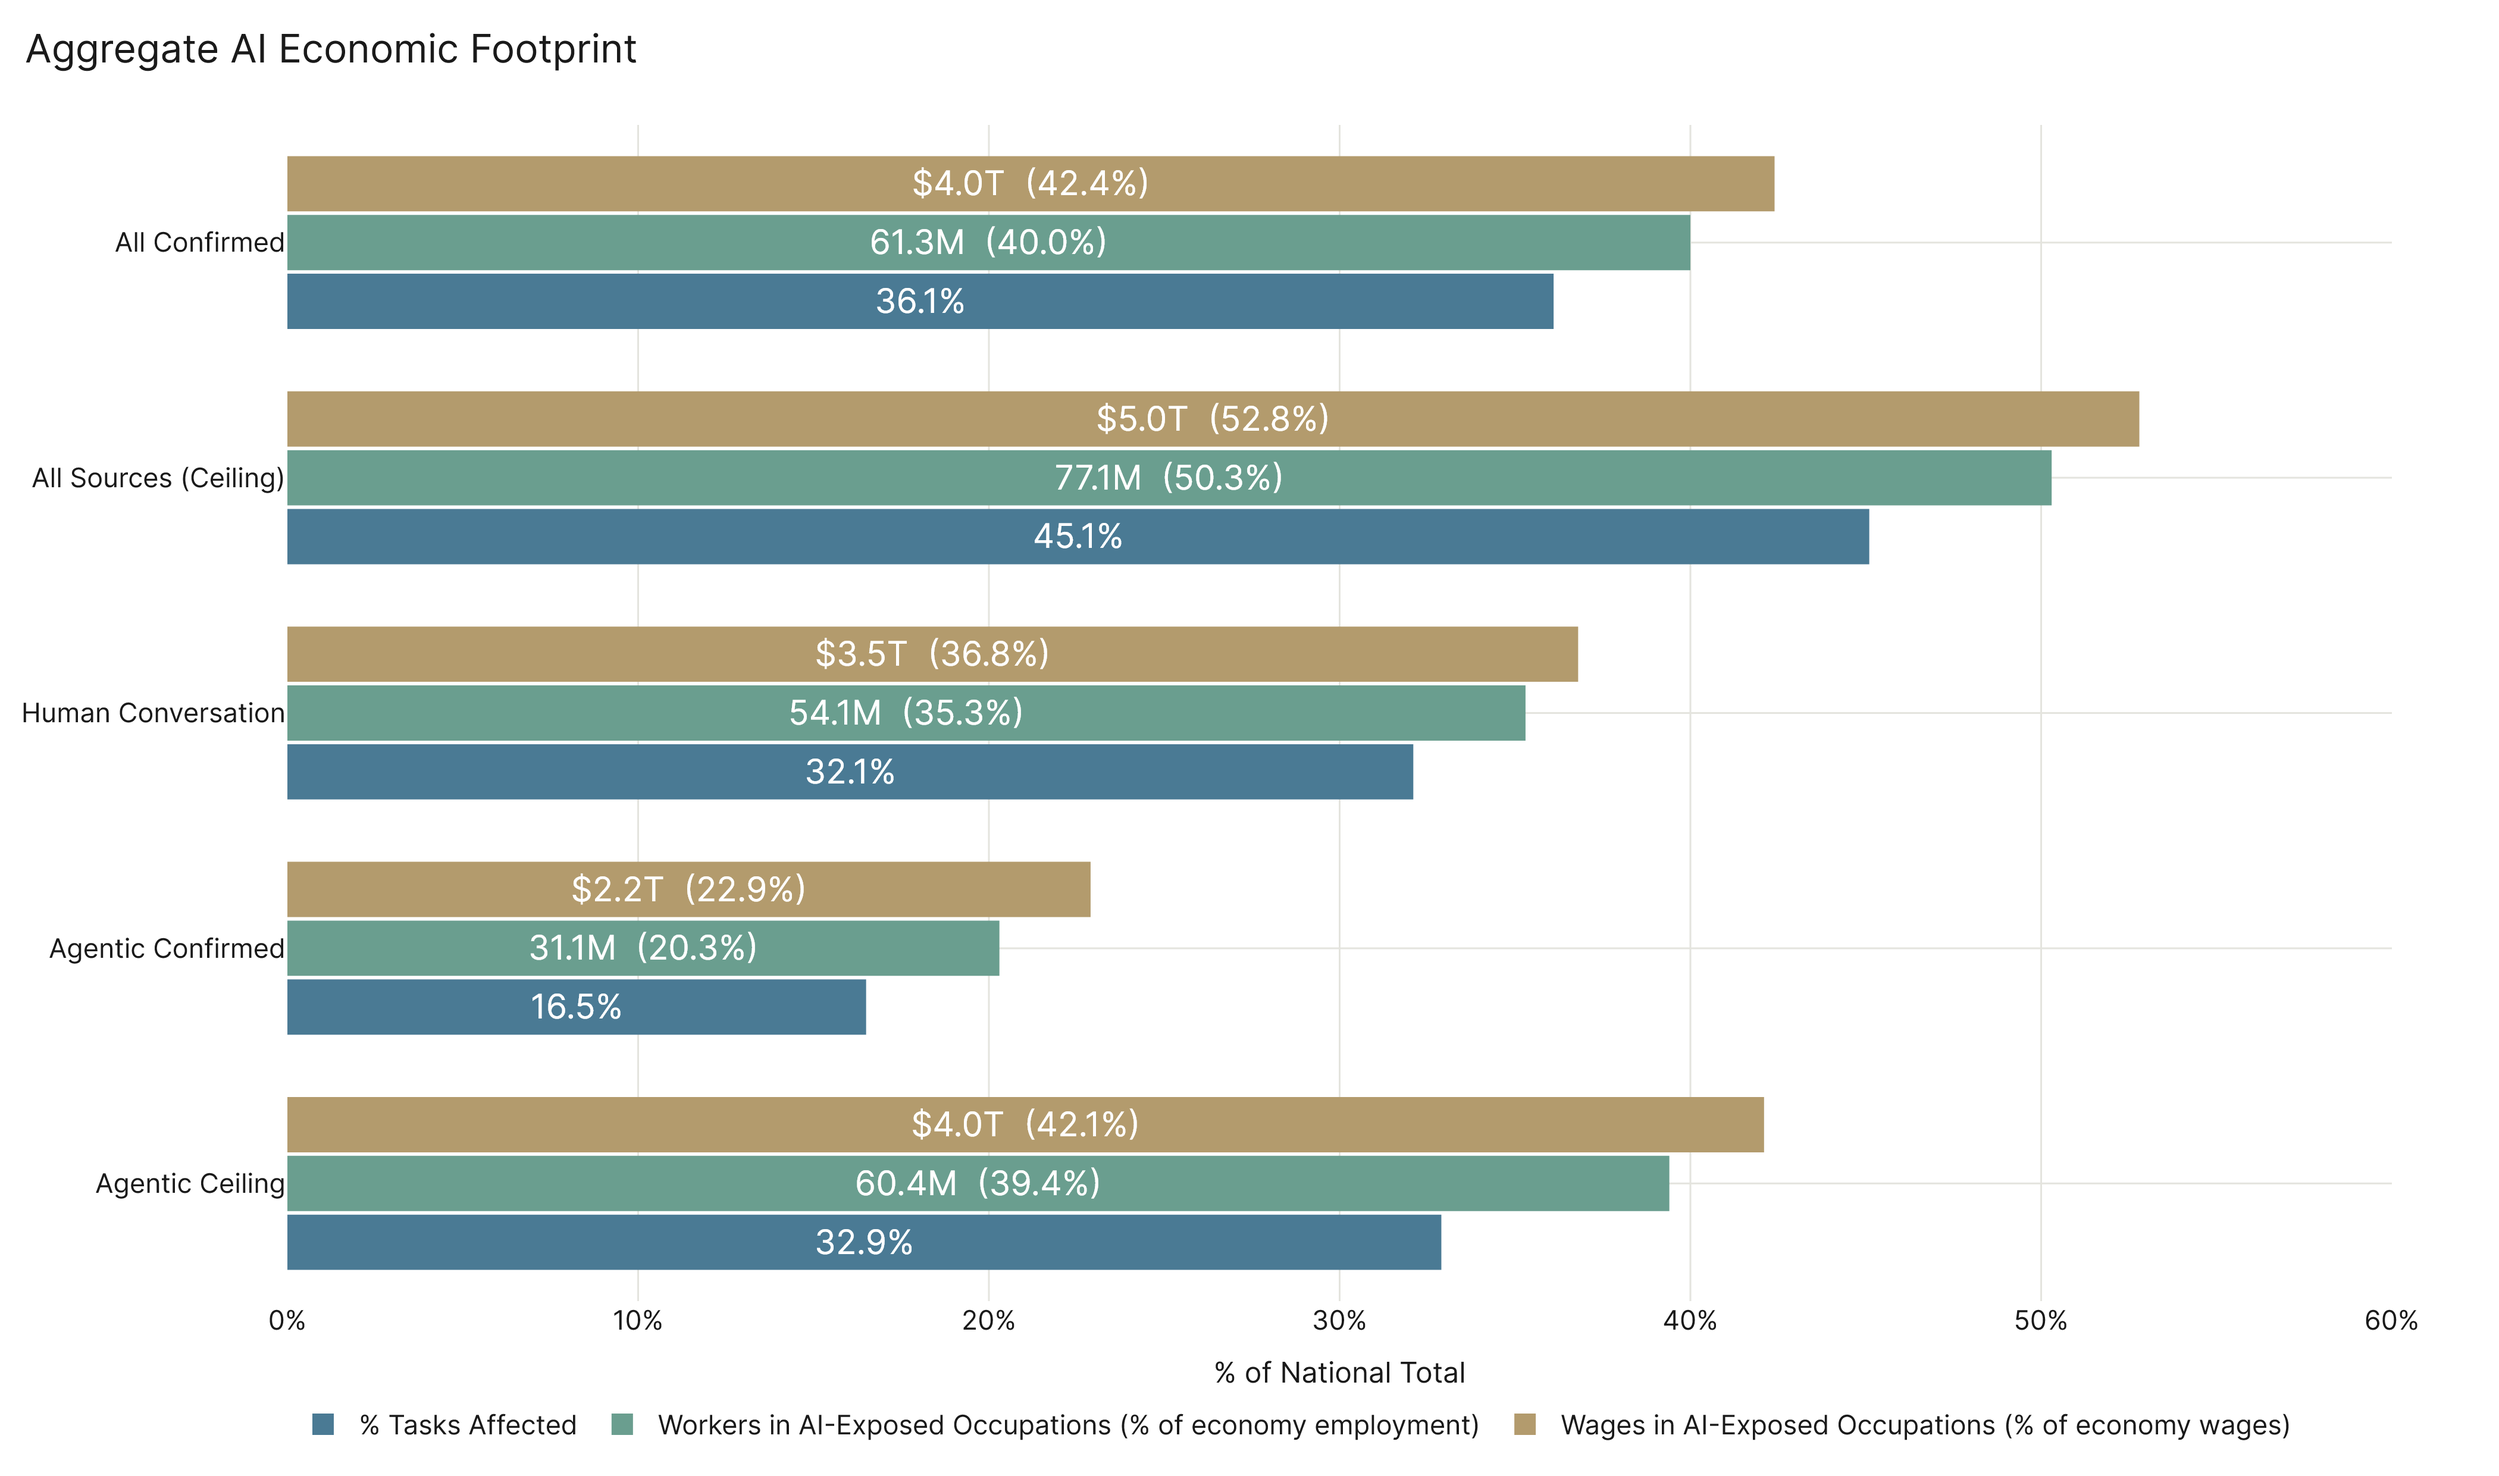
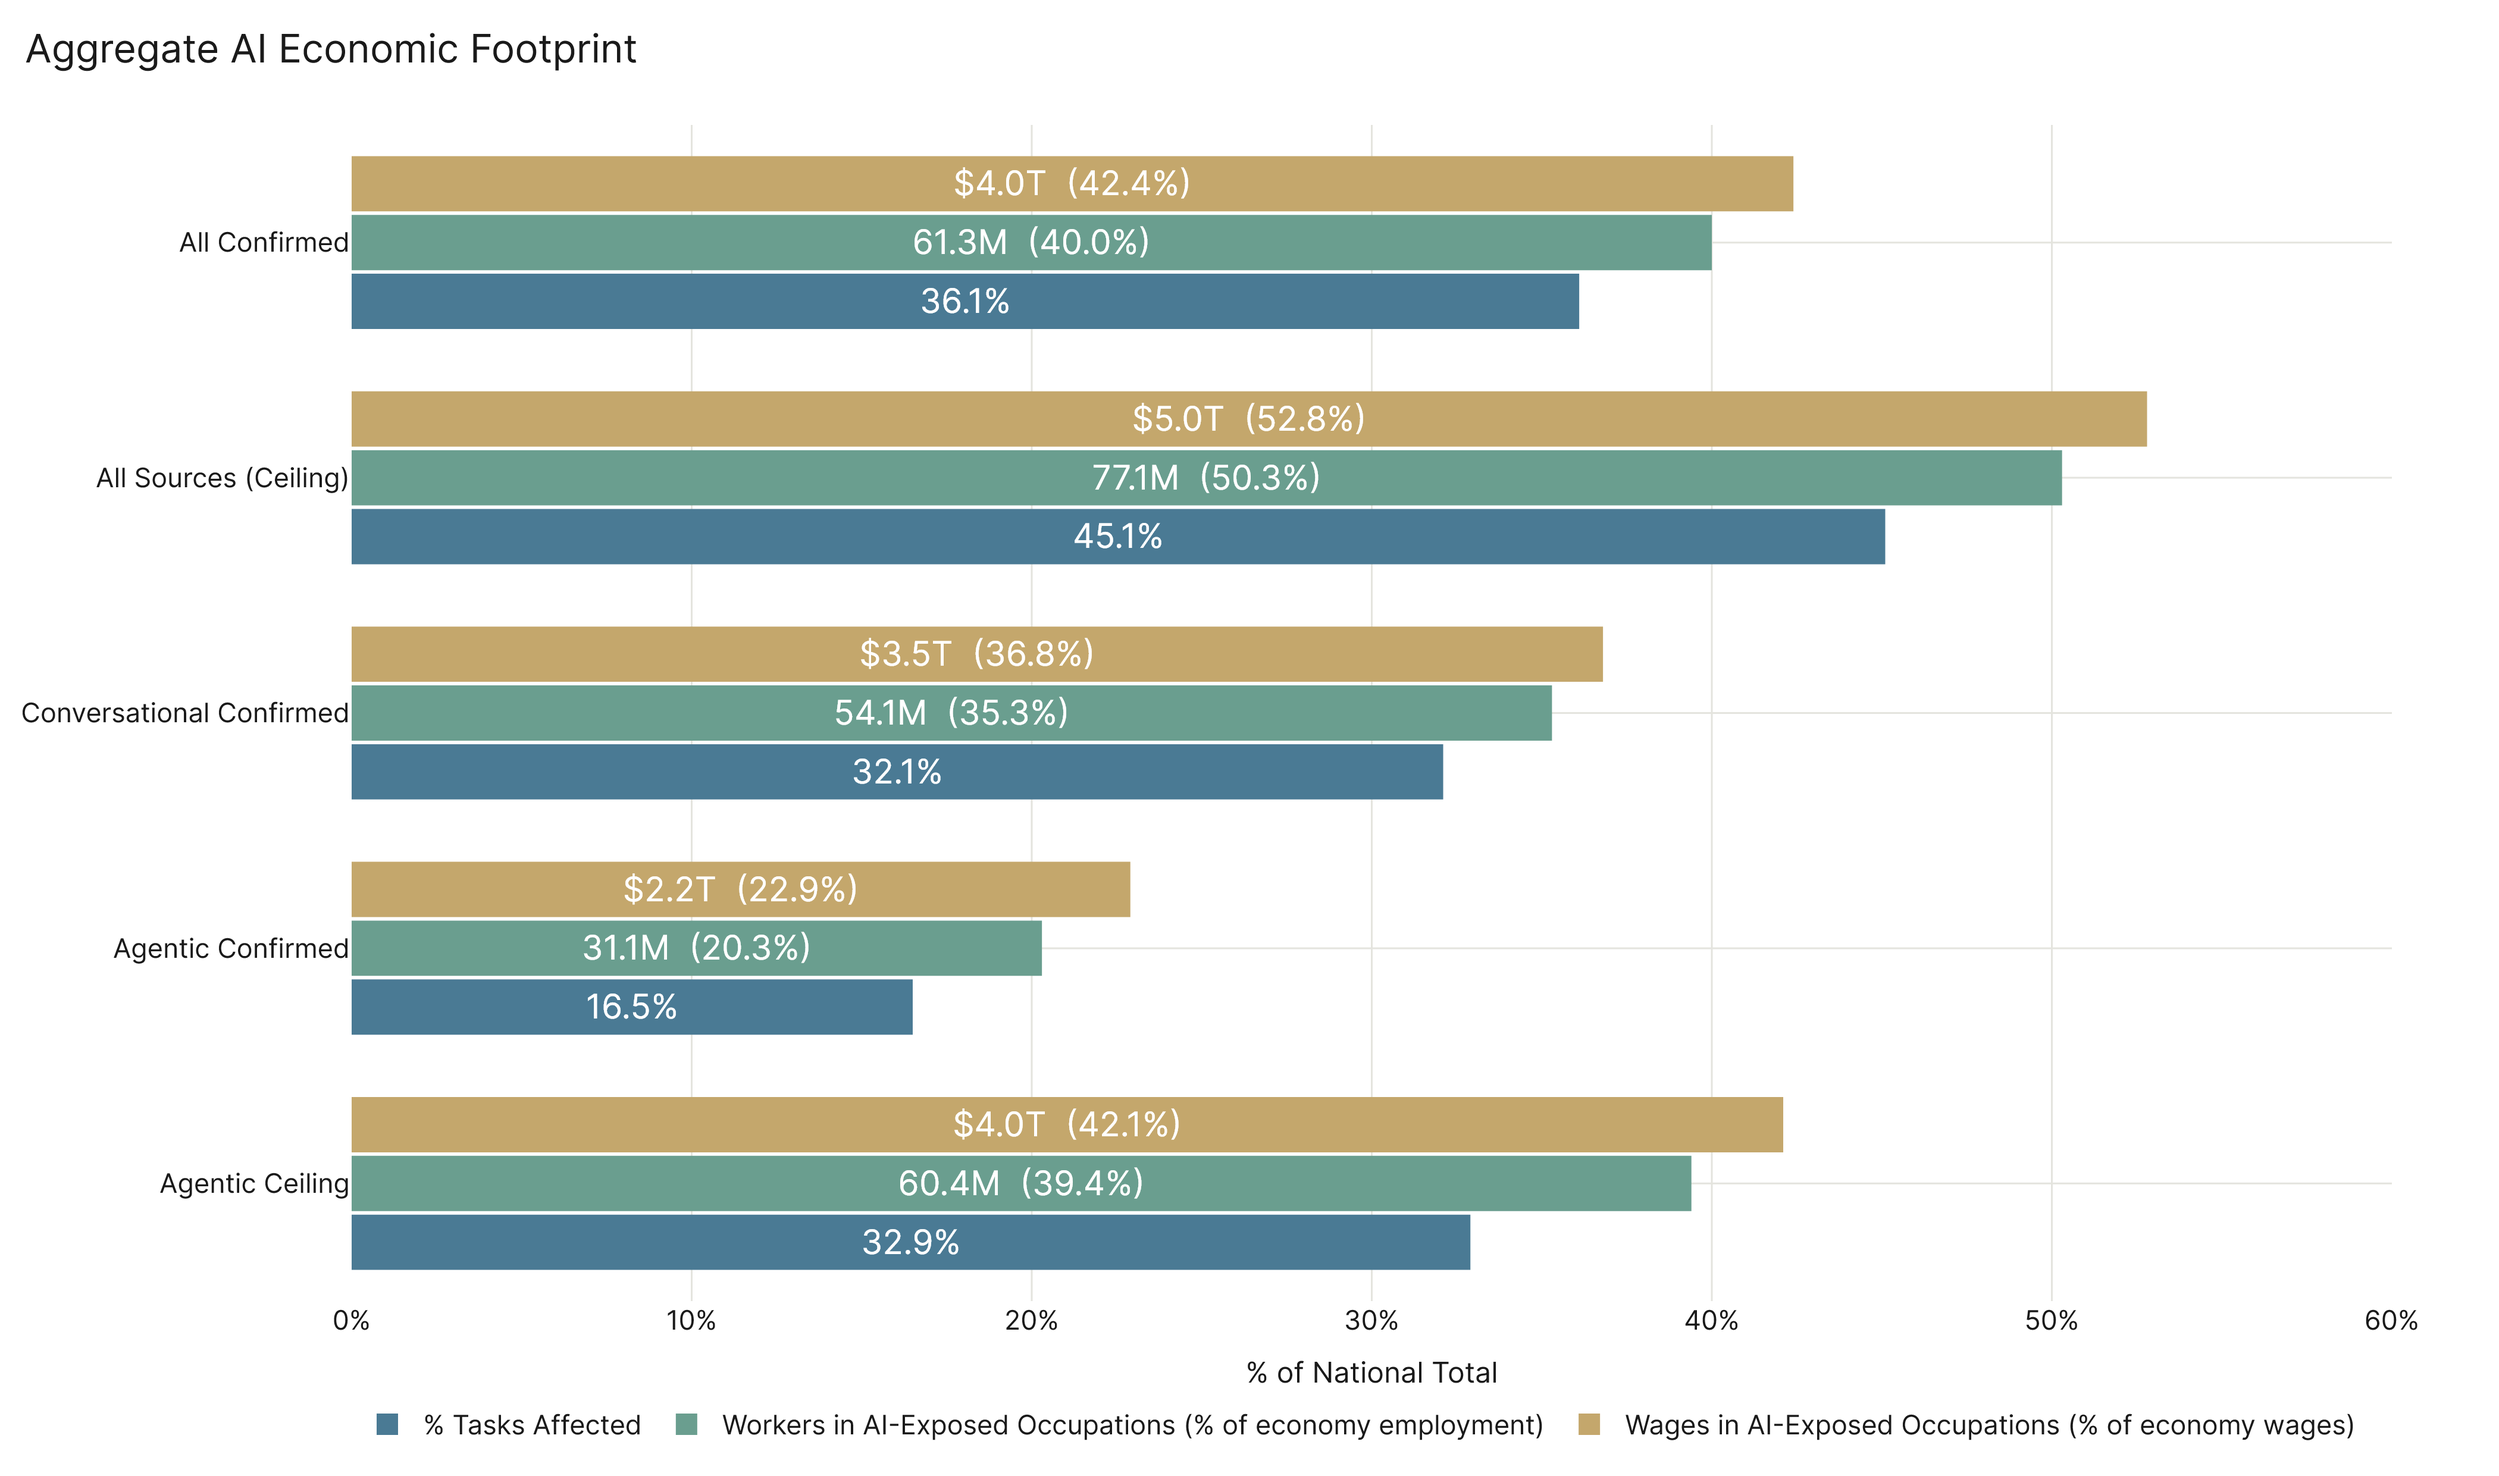
paper: rename Human Conversation → Conversational Confirmed, warmer tan
Config label change in analysis/config.py: "Human Conversation" →
"Conversational Confirmed" — parallels "Agentic Confirmed" and describes
the modality (browser/chat) rather than implying human vs non-human.

Wages bar color shifted warmer (#b39b6d → #c4a76c) to be more visibly
tan, closer to the heatmap low-end color.

diff --git a/analysis/paper/paper_config.py b/analysis/paper/paper_config.py
@@ -42,7 +42,7 @@ CONFIG_COLORS: dict[str, str] = {
 METRIC_COLORS: dict[str, str] = {
     "tasks":   "#4a7a94",   # Muted slate blue
     "workers": "#6a9e8f",   # Muted sage teal
-    "wages":   "#b39b6d",   # Warm tan
+    "wages":   "#c4a76c",   # Warm tan (closer to heatmap low)
 }
 
 # ── Heatmap scale ────────────────────────────────────────────────────────

diff --git a/analysis/config.py b/analysis/config.py
@@ -153,7 +153,7 @@ ANALYSIS_CONFIGS: dict[str, str] = {
 # Config labels for charts/reports
 ANALYSIS_CONFIG_LABELS: dict[str, str] = {
     "all_ceiling":        "All Sources (Ceiling)",
-    "human_conversation": "Human Conversation",
+    "human_conversation": "Conversational Confirmed",
     "agentic_confirmed":  "Agentic Confirmed",
     "all_confirmed":      "All Confirmed",
     "agentic_ceiling":    "Agentic Ceiling",
